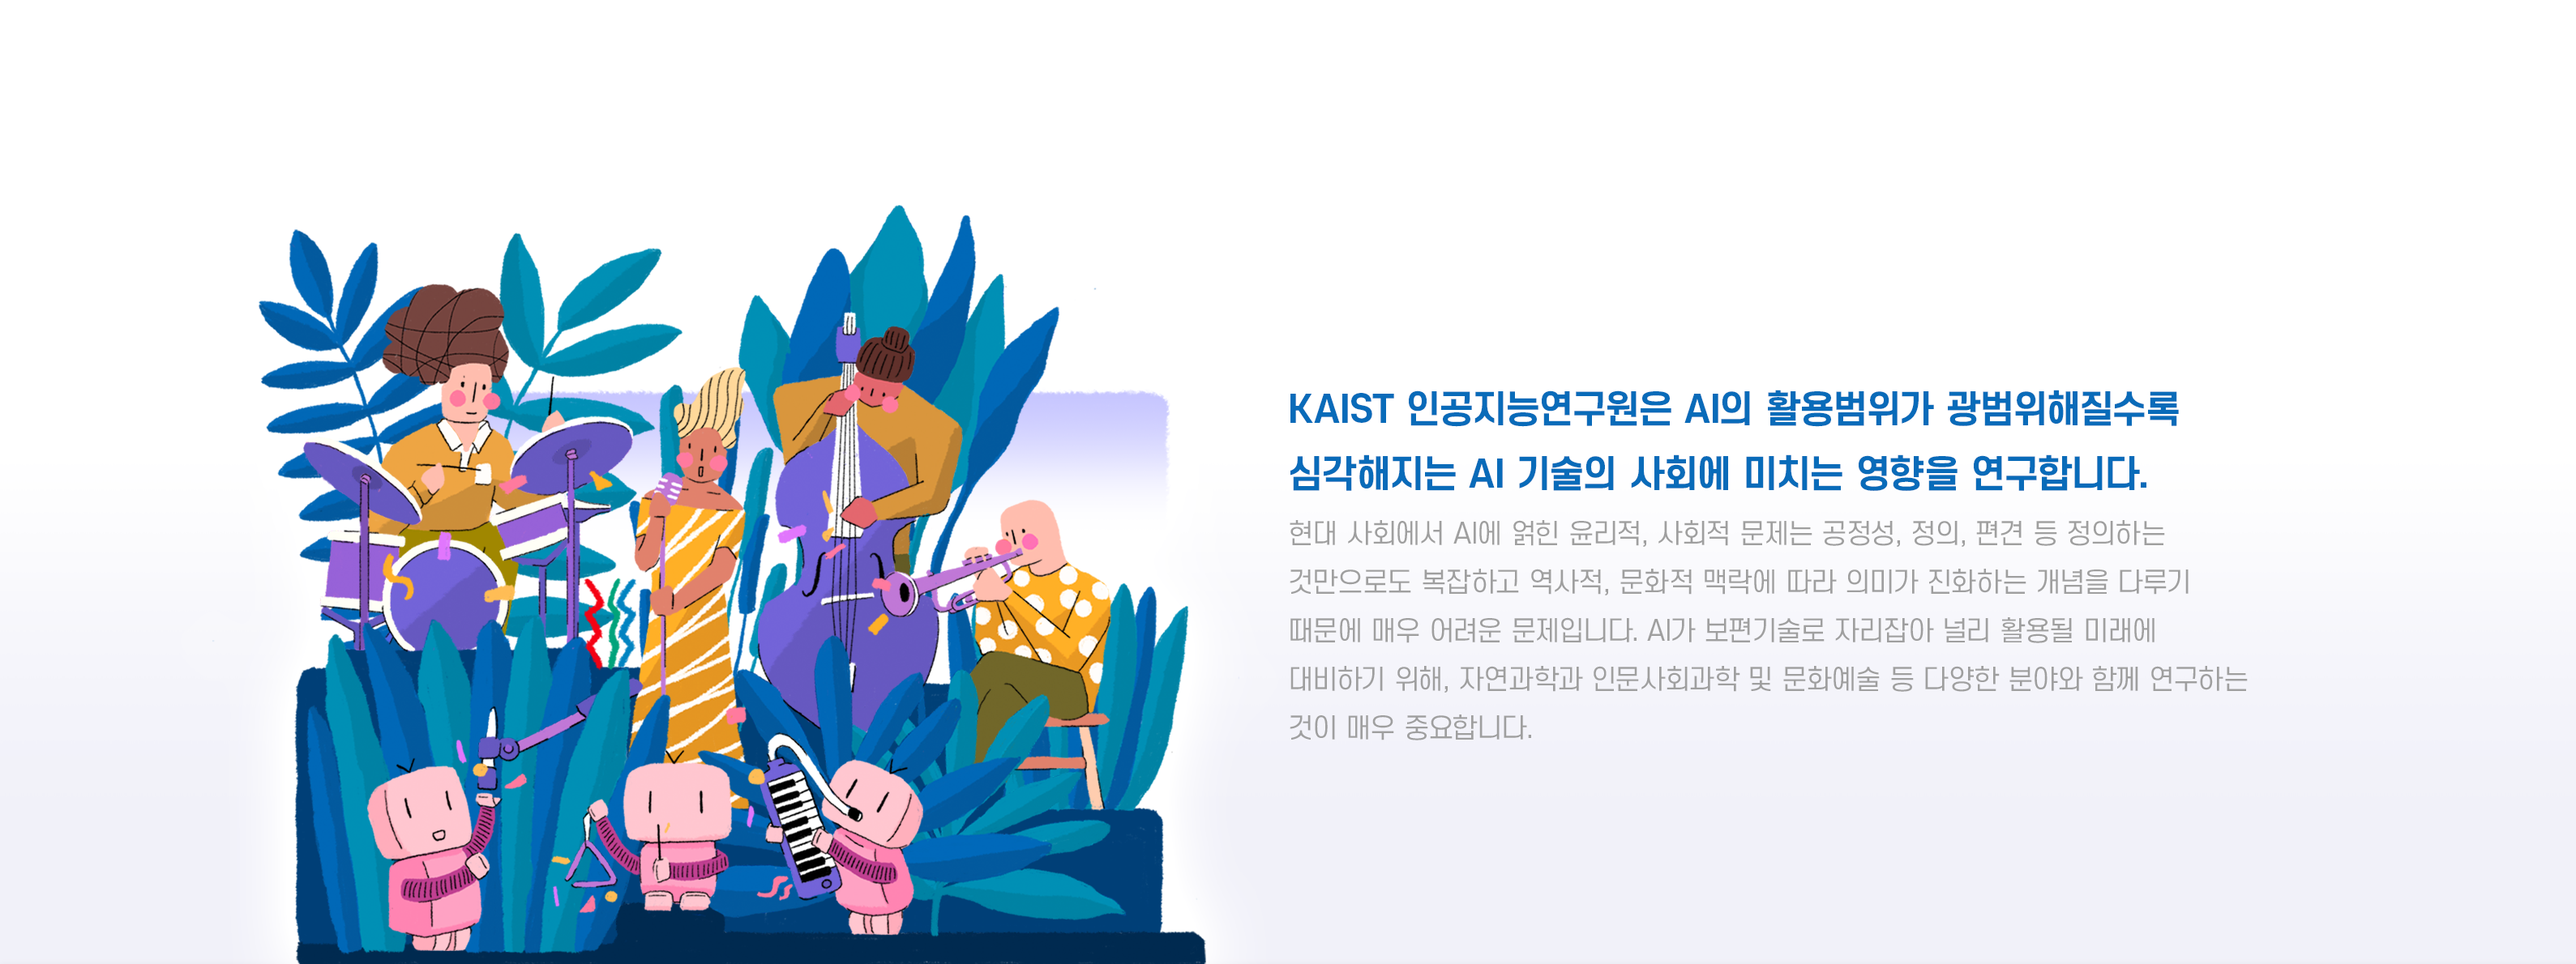
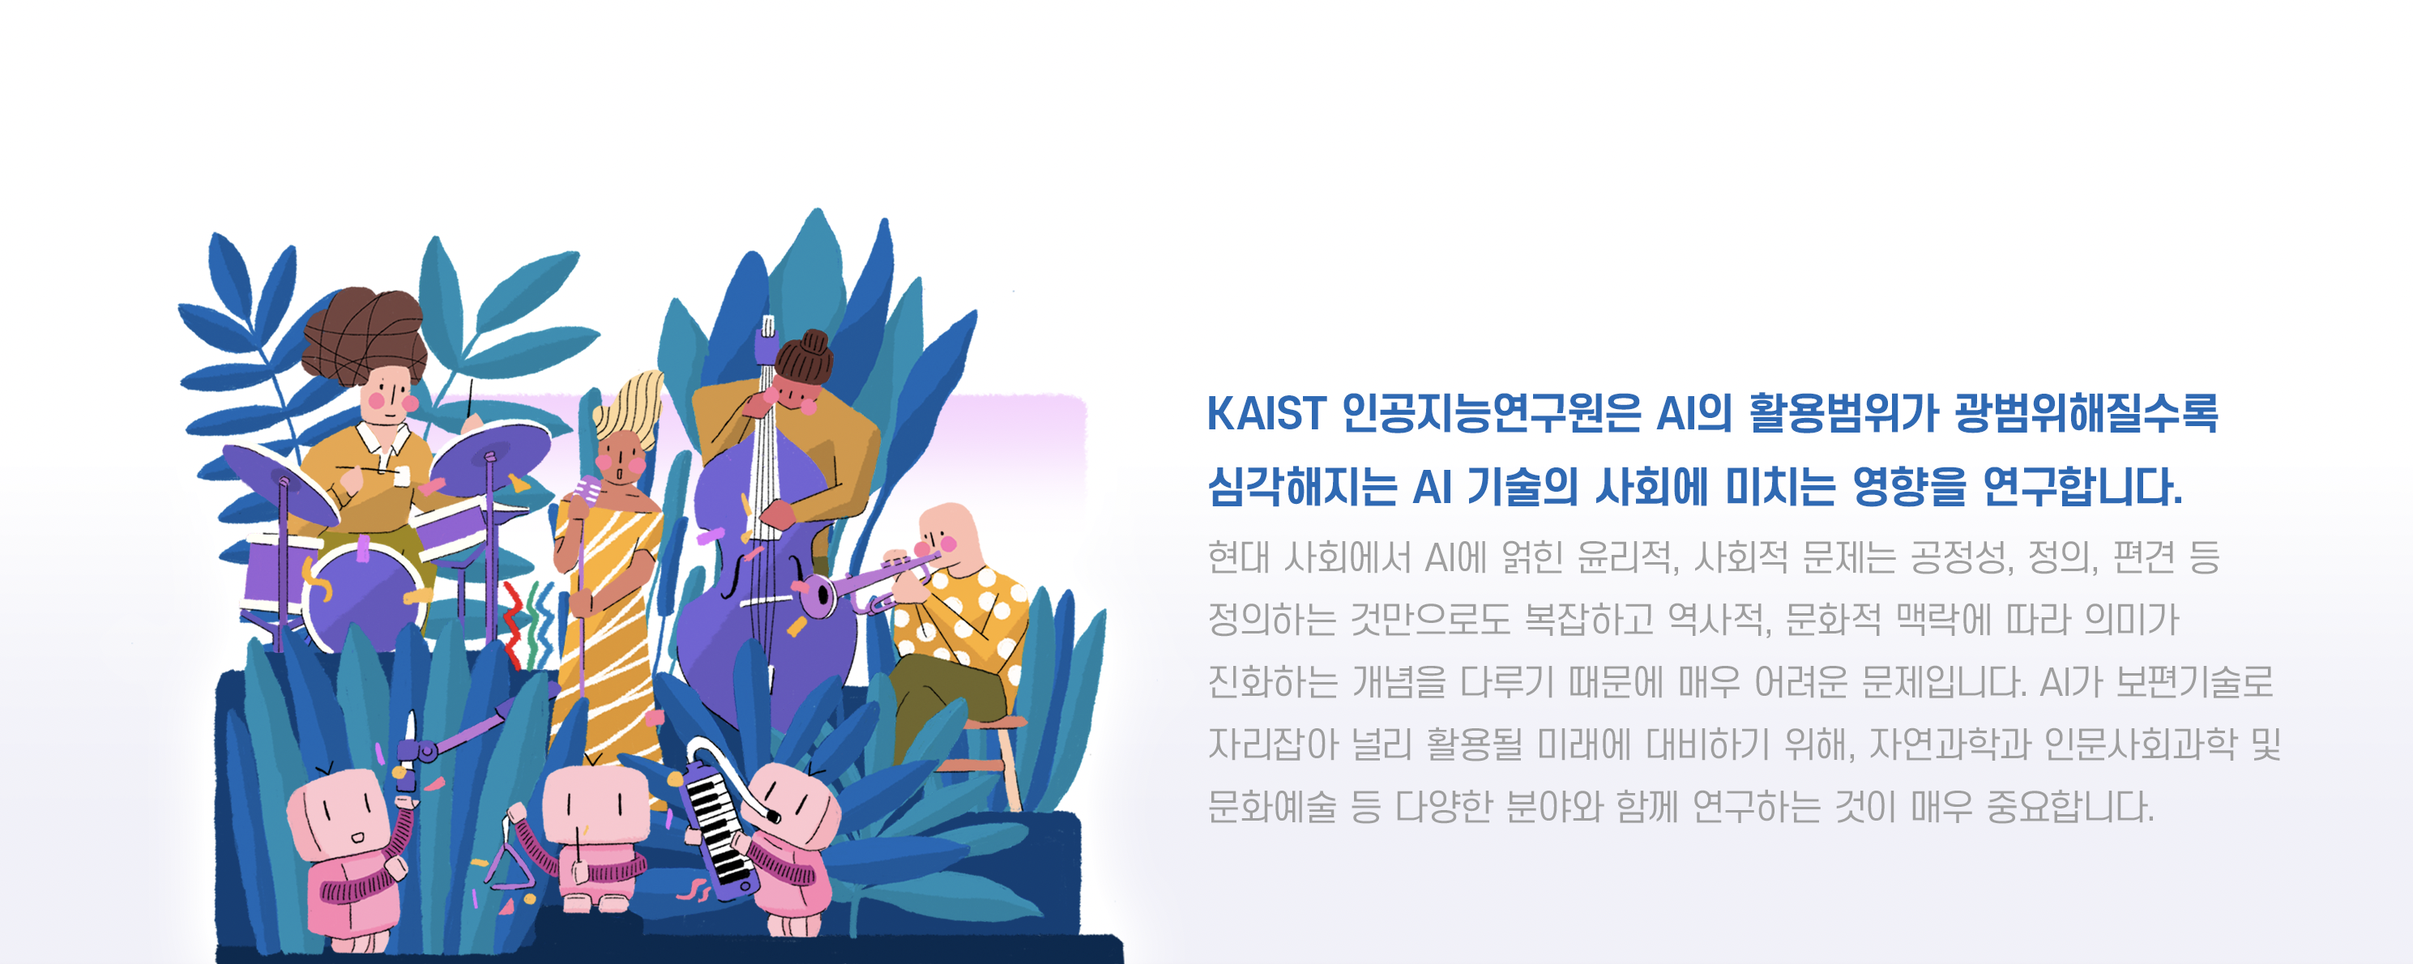
reactive

Changed region(s): [[0.0625, 0.2176, 0.4684, 1.0], [0.4997, 0.4042, 0.9369, 0.8706]]

diff --git a/assets/main.scss b/assets/main.scss
@@ -274,101 +274,167 @@ a {
 // 	padding-top: 0;
 // }
 
-#home-banner {
-	width: 100%;
-	min-width:1500px;
-	margin:auto;
-	// margin-top:100px;
-	background-size: contain;
-	background-repeat: no-repeat;
-	background-position: center;
-	height: 60vh;
-	color: white;
-	display: grid;
-	place-items: end left;
-	border-bottom:1px solid #eee;
-	box-shadow:0 0 15px rgba(0,0,0,0.08);
 
-	background-image: url("./imgs/illust/cover-bg.png");
-	background-repeat:repeat-x;
-	#cover {
-		position:relative;
-		height:100%; width:100%;
+@media screen and (max-width: 999px) {
+	#home-banner {
+		width: 100%; height:70vh;
+		border-bottom:1px solid #eee;
+		box-shadow:0 0 15px rgba(0,0,0,0.08);
 		background-size: contain;
 		background-repeat: no-repeat;
 		background-position: center;
-		-webkit-transition: background-image 0.5s ease-in-out;
-		transition: background-image 0.5s ease-in-out;
-		#cover-left {
-			position:absolute;
-			top:50%; left:50px;
-			transform:translateY(-25px);
-			width:30px; height:30px; 
-			background-image: url("./imgs/illust/line-angle-left-icon.svg");
+		background-image: url("./imgs/illust/cover-bg-mobile.png");
+		background-repeat:repeat-x;
+		#cover {
+			position:relative;
+			height:100%; width:100%;
+			background-size: contain;
 			background-repeat: no-repeat;
-			opacity:0.15;
+			background-position: center;
+			-webkit-transition: background-image 1s ease-in-out;
+			transition: background-image 1s ease-in-out;
+			
+			#cover-left {
+				position:absolute;
+				top:50%; left:50px;
+				transform:translateY(-25px);
+				width:30px; height:30px; 
+				background-image: url("./imgs/illust/line-angle-left-icon.svg");
+				background-repeat: no-repeat;
+				opacity:0.15;
+			}
+			#cover-right {
+				position:absolute;
+				top:50%; right:50px;
+				transform:rotate(180deg) translateY(25px);
+				width:30px; height:30px; 
+				background-image: url("./imgs/illust/line-angle-left-icon.svg");
+				background-repeat: no-repeat;
+				opacity:0.15;
+			}
 		}
-		#cover-right {
-			position:absolute;
-			top:50%; right:50px;
-			transform:rotate(180deg) translateY(25px);
-			width:30px; height:30px; 
-			background-image: url("./imgs/illust/line-angle-left-icon.svg");
-			background-repeat: no-repeat;
-			opacity:0.15;
+		&.cover1 {
+			#cover {
+				background-image: url("./imgs/illust/cover1-mobile.png");
+			}
+		}
+		&.cover2 {
+			#cover {
+				background-image: url("./imgs/illust/cover2-mobile.png");
+			}
+		}
+		&.cover3 {
+			#cover {
+				background-image: url("./imgs/illust/cover3-mobile.png");
+			}
+		}
+		&.cover4 {
+			#cover {
+				background-image: url("./imgs/illust/cover4-mobile.png");
+			}
 		}
 	}
 
-	&.cover1 {
-		#cover {
-			background-image: url("./imgs/illust/cover1.png");
-		}
-	}
-	&.cover2 {
-		#cover {
-			background-image: url("./imgs/illust/cover2.png");
-		}
-	}
-	&.cover3 {
-		#cover {
-			background-image: url("./imgs/illust/cover3.png");
-		}
-	}
-	&.cover4 {
-		#cover {
-			background-image: url("./imgs/illust/cover4.png");
-		}
-	}
-	
 
-	&.spring {
-		background-image: url("./imgs/banner/Spring.jpg");
-	}
-
-	&.summer {
-		background-image: url("./imgs/banner/summer.jpg");
-	}
-
-	&.fall {
-		background-image: url("./imgs/banner/Fall.jpg");
-	}
-
-	&.winter {
-		background-image: url("./imgs/banner/Winter.jpg");
-	}
-	.banner-overlay {
-		// position: relative;
-		// top: 0;
-		// left: 0;
-		width: fit-content;
-		height: fit-content;
-		padding: 20px;
-		margin-left: 20px;
-		margin-bottom: 20px;
-		background-color: #37373771;
-	}
 }
 
+@media screen and (min-width: 1000px) {
+	#home-banner {
+		width: 100%; height: 40vw;
+		max-height:600px;
+		// max-width:1500px;
+		margin:auto;
+		// margin-top:100px;
+		background-size: contain;
+		background-repeat: no-repeat;
+		background-position: center;
+		color: white;
+		display: grid;
+		place-items: end left;
+		border-bottom:1px solid #eee;
+		box-shadow:0 0 15px rgba(0,0,0,0.08);
+		background-image: url("./imgs/illust/cover-bg.png");
+		background-repeat:repeat-x;
+		#cover {
+			position:relative;
+			height:100%; width:100%;
+			// max-width:1500px;
+			margin:auto;
+			background-size: contain;
+			background-repeat: no-repeat;
+			background-position: bottom;
+			-webkit-transition: background-image 1s ease-in-out;
+			transition: background-image 1s ease-in-out;
+			#cover-left {
+				position:absolute;
+				top:50%; left:50px;
+				transform:translateY(-25px);
+				width:30px; height:30px; 
+				background-image: url("./imgs/illust/line-angle-left-icon.svg");
+				background-repeat: no-repeat;
+				opacity:0.15;
+			}
+			#cover-right {
+				position:absolute;
+				top:50%; right:50px;
+				transform:rotate(180deg) translateY(25px);
+				width:30px; height:30px; 
+				background-image: url("./imgs/illust/line-angle-left-icon.svg");
+				background-repeat: no-repeat;
+				opacity:0.15;
+			}
+		}
+
+		&.cover1 {
+			#cover {
+				background-image: url("./imgs/illust/cover1.png");
+			}
+		}
+		&.cover2 {
+			#cover {
+				background-image: url("./imgs/illust/cover2.png");
+			}
+		}
+		&.cover3 {
+			#cover {
+				background-image: url("./imgs/illust/cover3.png");
+			}
+		}
+		&.cover4 {
+			#cover {
+				background-image: url("./imgs/illust/cover4.png");
+			}
+		}
+		
+
+		&.spring {
+			background-image: url("./imgs/banner/Spring.jpg");
+		}
+
+		&.summer {
+			background-image: url("./imgs/banner/summer.jpg");
+		}
+
+		&.fall {
+			background-image: url("./imgs/banner/Fall.jpg");
+		}
+
+		&.winter {
+			background-image: url("./imgs/banner/Winter.jpg");
+		}
+		.banner-overlay {
+			// position: relative;
+			// top: 0;
+			// left: 0;
+			width: fit-content;
+			height: fit-content;
+			padding: 20px;
+			margin-left: 20px;
+			margin-bottom: 20px;
+			background-color: #37373771;
+		}
+	}
+}
 // Carousel
 
 .slider-wrapper {

diff --git a/index.html b/index.html
@@ -144,7 +144,7 @@ layout: home
 		console.log(coverNum);
 		let banner = document.getElementById("home-banner");
 		banner.className = "cover"+coverNum;
-	},3000);
+	},4000);
 	function prevCover() {
 		clearInterval(autoRotateInterval);
 		console.log("prev");
